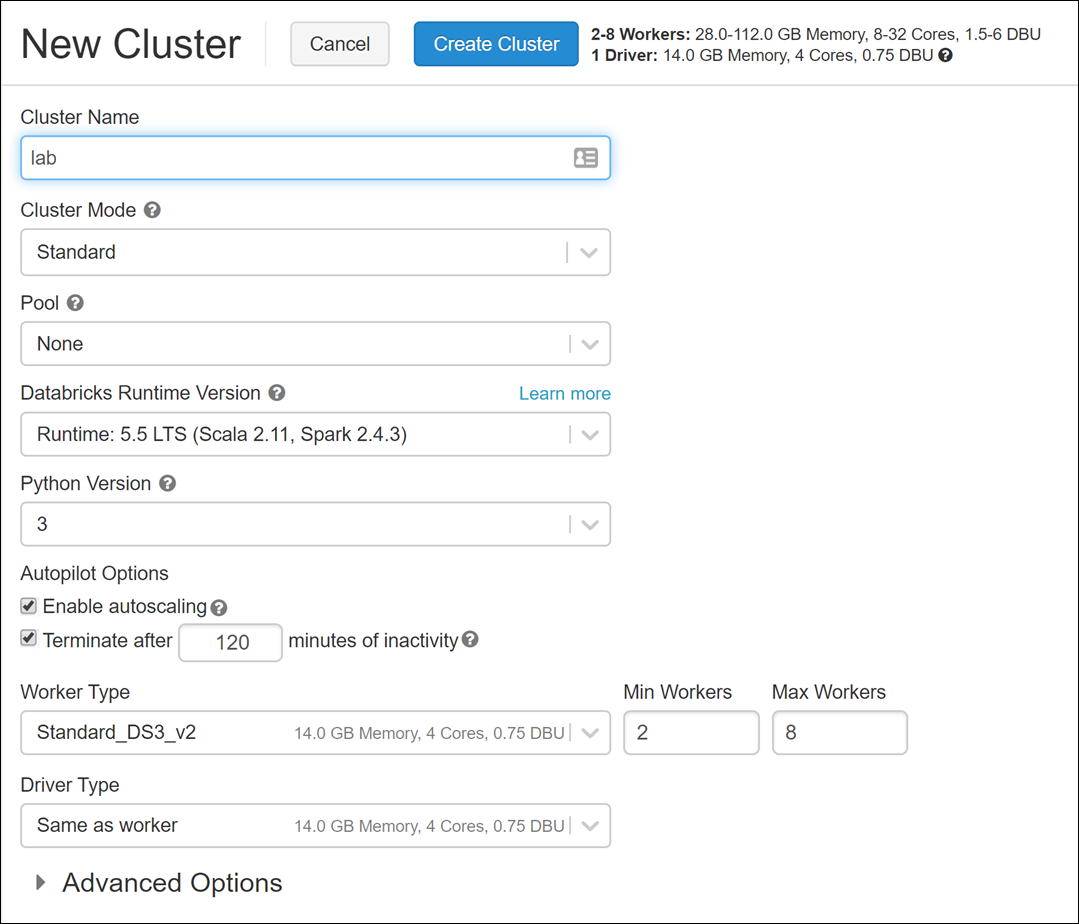
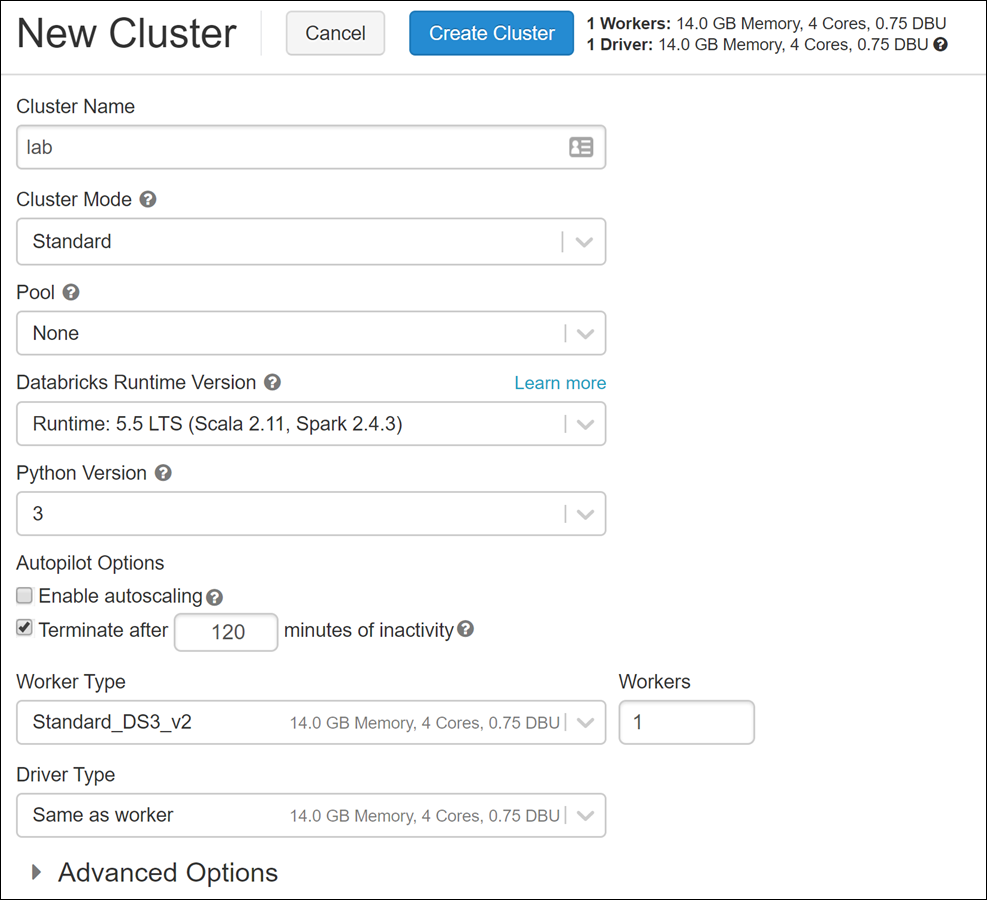
Lab and demo updates

Changed region(s): [[0.0, 0.0, 1.0, 0.7467], [0.0, 0.7156, 0.8207, 0.9956], [0.5167, 0.4667, 0.6079, 0.4978]]

diff --git a/lab-files/IoT/Solution/FleetDataGenerator/Program.cs b/lab-files/IoT/Solution/FleetDataGenerator/Program.cs
@@ -167,6 +167,10 @@ namespace FleetDataGenerator
                             ConsoleColor.Green);
                     }
 
+                    // Ensure the telemetry container throughput is set to 15,000 RU/s.
+                    var telemetryContainer = await GetContainerIfExists(TelemetryContainerName);
+                    await ChangeContainerPerformance(telemetryContainer, 15000);
+
                     // Initially seed the Cosmos DB database with metadata if empty.
                     await SeedDatabase(cosmosDbConnectionString, cancellationToken);
                     trips = await GetTripsFromDatabase(numberSimulatedTrucks, container);

diff --git a/lab-files/IoT/Starter/FleetDataGenerator/Program.cs b/lab-files/IoT/Starter/FleetDataGenerator/Program.cs
@@ -167,6 +167,10 @@ namespace FleetDataGenerator
                             ConsoleColor.Green);
                     }
 
+                    // Ensure the telemetry container throughput is set to 15,000 RU/s.
+                    var telemetryContainer = await GetContainerIfExists(TelemetryContainerName);
+                    await ChangeContainerPerformance(telemetryContainer, 15000);
+
                     // Initially seed the Cosmos DB database with metadata if empty.
                     await SeedDatabase(cosmosDbConnectionString, cancellationToken);
                     trips = await GetTripsFromDatabase(numberSimulatedTrucks, container);

diff --git a/IoT/Demo step-by step - Cosmos DB scenario-based labs - IoT.md b/IoT/Demo step-by step - Cosmos DB scenario-based labs - IoT.md
@@ -453,14 +453,36 @@ In this task, you will create a new cluster on which data exploration and model 
    3. **Pool**: Select **None**.
    4. **Databricks Runtime Version**: Select **Runtime 5.5 LTS (Scala 2.11, Spark 2.4.3)**.
    5. **Python Version**: Enter **3**.
-   6. **Autopilot Options**: Check **Enable autoscaling** and **Terminate after...**, with a value of **120** minutes.
+   6. **Autopilot Options**: Uncheck **Enable autoscaling** and **Terminate after...**, with a value of **120** minutes.
    7. **Worker Type**: Select **Standard_DS3_v2**.
    8. **Driver Type**: Select **Same as worker**.
-   9. Enter **2** and **8** into **Min Workers** and **Max Workers**, respectively.
+   9. **Workers**: Enter **1**.
 
    ![The New Cluster form is displayed with the previously described values.](media/databricks-new-cluster.png 'New Cluster')
 
 5. Select **Create Cluster**.
+
+6. Before continuing to the next step, verify that your new cluster is running. Wait for the state to change from **Pending** to **Running**
+
+7. Select the **lab** cluster, then select **Libraries**.
+
+8. Select **Install New**.
+
+    ![Navigate to the libraries tab and select `Install New`.](media/databricks-new-library.png 'Adding a new library')
+
+9. In the Install Library dialog, select **Maven** for the Library Source.
+
+10. In the Coordinates field type:
+
+    ```text
+    com.microsoft.azure:azure-cosmosdb-spark_2.4.0_2.11:1.4.1
+    ```
+
+11. Select **Install**
+
+    ![Populated library dialog for Maven.](media/databricks-install-library-cosmos.png 'Add the Maven library')
+
+12. **Wait** until the library's status shows as **Installed** before continuing.
 
 ### Task 12: Configure Key Vault-backed Databricks secret store
 
@@ -517,6 +539,8 @@ In this task, you will import the Databricks notebooks into your workspace.
 5. After importing, select your username. You will see a new folder named `01 IoT (clean)`, which contains two notebooks.
 
    ![The imported notebooks are displayed.](media/databricks-notebooks.png 'Imported notebooks')
+
+6. Complete the **Model Deployment** notebook to deploy the model to ACI.
 
 ### Task 14: View Cosmos DB processing Function App in the portal
 
@@ -1102,15 +1126,23 @@ To view this notebook, perform the following steps:
 
 4. Navigate to the Azure portal, then open the Azure Container Instances service to show where the model deployed.
 
-5. Open the Azure Machine Learning service workspace, then select **Models** in the left-hand menu to view the pre-trained model.
+5. Open the Azure Machine Learning service workspace in the portal, then select **Models** in the left-hand menu to view the pre-trained model.
 
    ![The models blade is displayed in the AML service workspace.](media/aml-models.png 'Models')
+
+6. Select **Deployments** in the left-hand menu, then select the Azure Container Instances deployment that was created when you ran the notebook.
+
+    ![The deployments blade is displayed in the AML service workspace.](media/aml-deployments.png "Deployments")
+
+7. Copy the **Scoring URI** value. This will be used by the deployed web app to request predictions in real time.
+
+    ![The deployment's scoring URI is highlighted.](media/aml-deployment-scoring-uri.png "Scoring URI")
 
 ### Task 2: Call the deployed scoring web service from the Web App
 
 Now that the web service is deployed to ACI, we can call it to make predictions from the Fleet Management Web App. To enable this capability, we first need to update the Web App's application configuration settings with the scoring URI.
 
-1. In the last cell you executed within the `Model Deployment` notebook in Azure Databricks, you should see a scoring URI for the deployed service similar to `http://89058a71-7e98-4e19-9a1e-27262bf0a91b.westus.azurecontainer.io/score`. **Copy this value**.
+1. Make sure you have copied the Scoring URI of your deployed service, as instructed in the previous task.
 
 2. Open the Web App (App Service) whose name begins with **IoTWebApp**.
 

diff --git a/IoT/HOL step-by step - Cosmos DB scenario-based labs - IoT.md b/IoT/HOL step-by step - Cosmos DB scenario-based labs - IoT.md
@@ -614,14 +614,36 @@ In this task, you will create a new cluster on which data exploration and model 
    3. **Pool**: Select **None**.
    4. **Databricks Runtime Version**: Select **Runtime 5.5 LTS (Scala 2.11, Spark 2.4.3)**.
    5. **Python Version**: Enter **3**.
-   6. **Autopilot Options**: Check **Enable autoscaling** and **Terminate after...**, with a value of **120** minutes.
+   6. **Autopilot Options**: Uncheck **Enable autoscaling** and **Terminate after...**, with a value of **120** minutes.
    7. **Worker Type**: Select **Standard_DS3_v2**.
    8. **Driver Type**: Select **Same as worker**.
-   9. Enter **2** and **8** into **Min Workers** and **Max Workers**, respectively.
+   9. **Workers**: Enter **1**.
 
    ![The New Cluster form is displayed with the previously described values.](media/databricks-new-cluster.png 'New Cluster')
 
 5. Select **Create Cluster**.
+
+6. Before continuing to the next step, verify that your new cluster is running. Wait for the state to change from **Pending** to **Running**
+
+7. Select the **lab** cluster, then select **Libraries**.
+
+8. Select **Install New**.
+
+    ![Navigate to the libraries tab and select `Install New`.](media/databricks-new-library.png 'Adding a new library')
+
+9. In the Install Library dialog, select **Maven** for the Library Source.
+
+10. In the Coordinates field type:
+
+    ```text
+    com.microsoft.azure:azure-cosmosdb-spark_2.4.0_2.11:1.4.1
+    ```
+
+11. Select **Install**
+
+    ![Populated library dialog for Maven.](media/databricks-install-library-cosmos.png 'Add the Maven library')
+
+12. **Wait** until the library's status shows as **Installed** before continuing.
 
 ### Task 8: Configure Key Vault-backed Databricks secret store
 
@@ -1931,11 +1953,23 @@ To run this notebook, perform the following steps:
 
 3. As with the Batch Scoring notebook, be sure to attach your lab cluster before executing cells.
 
+4. **After you are finished running the notebook**, open the Azure Machine Learning service workspace in the portal, then select **Models** in the left-hand menu to view the pre-trained model.
+
+   ![The models blade is displayed in the AML service workspace.](media/aml-models.png 'Models')
+
+5. Select **Deployments** in the left-hand menu, then select the Azure Container Instances deployment that was created when you ran the notebook.
+
+    ![The deployments blade is displayed in the AML service workspace.](media/aml-deployments.png "Deployments")
+
+6. Copy the **Scoring URI** value. This will be used by the deployed web app to request predictions in real time.
+
+    ![The deployment's scoring URI is highlighted.](media/aml-deployment-scoring-uri.png "Scoring URI")
+
 ### Task 2: Call the deployed scoring web service from the Web App
 
 Now that the web service is deployed to ACI, we can call it to make predictions from the Fleet Management Web App. To enable this capability, we first need to update the Web App's application configuration settings with the scoring URI.
 
-1. In the last cell you executed within the `Model Deployment` notebook in Azure Databricks, you should see a scoring URI for the deployed service similar to `http://89058a71-7e98-4e19-9a1e-27262bf0a91b.westus.azurecontainer.io/score`. **Copy this value**.
+1. Make sure you have copied the Scoring URI of your deployed service, as instructed in the previous task.
 
 2. Open the Web App (App Service) whose name begins with **IoTWebApp**.
 
